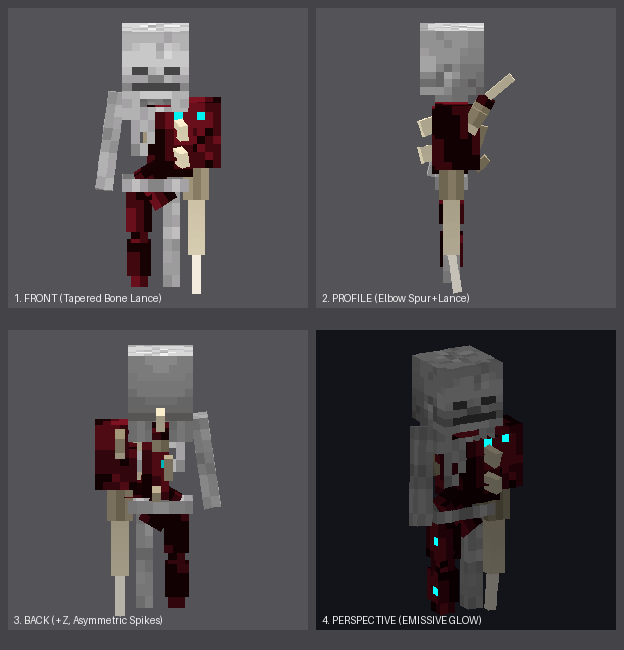
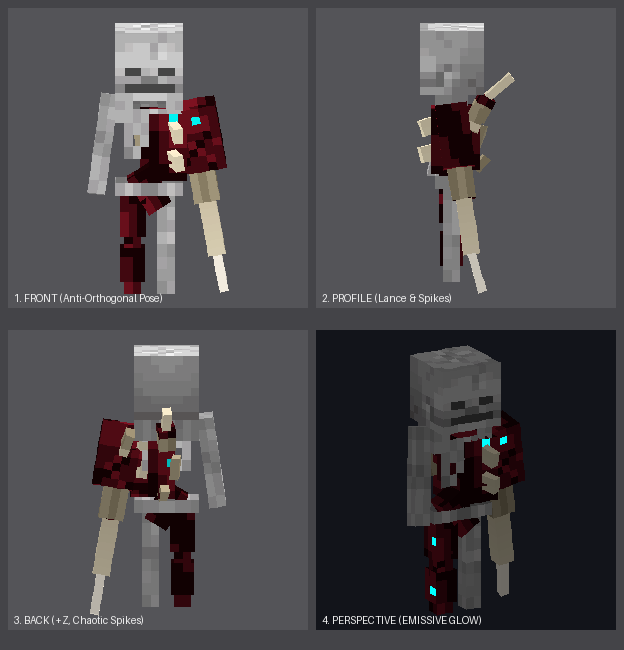
feat(artist): add rule 13 and apply anti-orthogonal angles to infected_skeleton_b rev8

diff --git a/04-artist/BENCHMARK_RULES.md b/04-artist/BENCHMARK_RULES.md
@@ -69,3 +69,10 @@
   2. **Аритмичный шаг:** Расстояния между шипами и углы наклона обязаны отличаться (разброс углов от 20° до 50°, смещение относительно центральной оси).
   3. **Составная сегментация длины:** Крупные шипы обязаны собираться минимум из 2 сужающихся сегментов (`spike_base` -> `spike_tip`).
   4. **Текстурный градиент кости:** У основания обязательна манжета разорванной багровой плоти (`#450911`), нижние грани затеняются (`#A89C80`), боковые — слоновая кость (`#EDE3C7`), остриё — кальциевый блик (`#FFF8EA`).
+
+- **ПРАВИЛО 13: ЗАКОН УГЛОВОГО ИСКАЖЕНИЯ И АНТИ-ОРТОГОНАЛЬНОСТИ (ЗАПРЕТ ПРЯМЫХ УГЛОВ).**
+  В мутациях Carnis не существует прямых углов и идеальных параллелей. Каждый паразитический элемент (шип, щупальце, нарост, трансформированная конечность, челюсть) **ОБЯЗАН** иметь лёгкое угловое отклонение в **5°–15°** минимум по двум осям вращения (Pitch `X`, Yaw `Y`, Roll `Z`):
+  1. **Костяные шипы и наросты:** Запрещено выстраивать шипы строго в одну линию по оси Z. Каждый шип обязан быть слегка вывернут вбок (Roll/Yaw +-5°..12°).
+  2. **Оружие и мутировавшие руки:** Рука-пика/коса обязана быть слегка отведена в сторону от тела (Roll -8°..-15°) и направлена остриём чуть вперёд (Pitch -5°..-12°).
+  3. **Разорванные челюсти:** Нижняя челюсть не просто опускается вниз, а слегка перекашивается набок (Roll +-6°, Yaw +-5°).
+  *Внимание:* Это правило относится **ИСКЛЮЧИТЕЛЬНО** к поворотам костей/кубов в пространстве `.geo.json`. UV-развёртка текстур остаётся целостной и строгой (1:1 воксел-к-пикселю).
